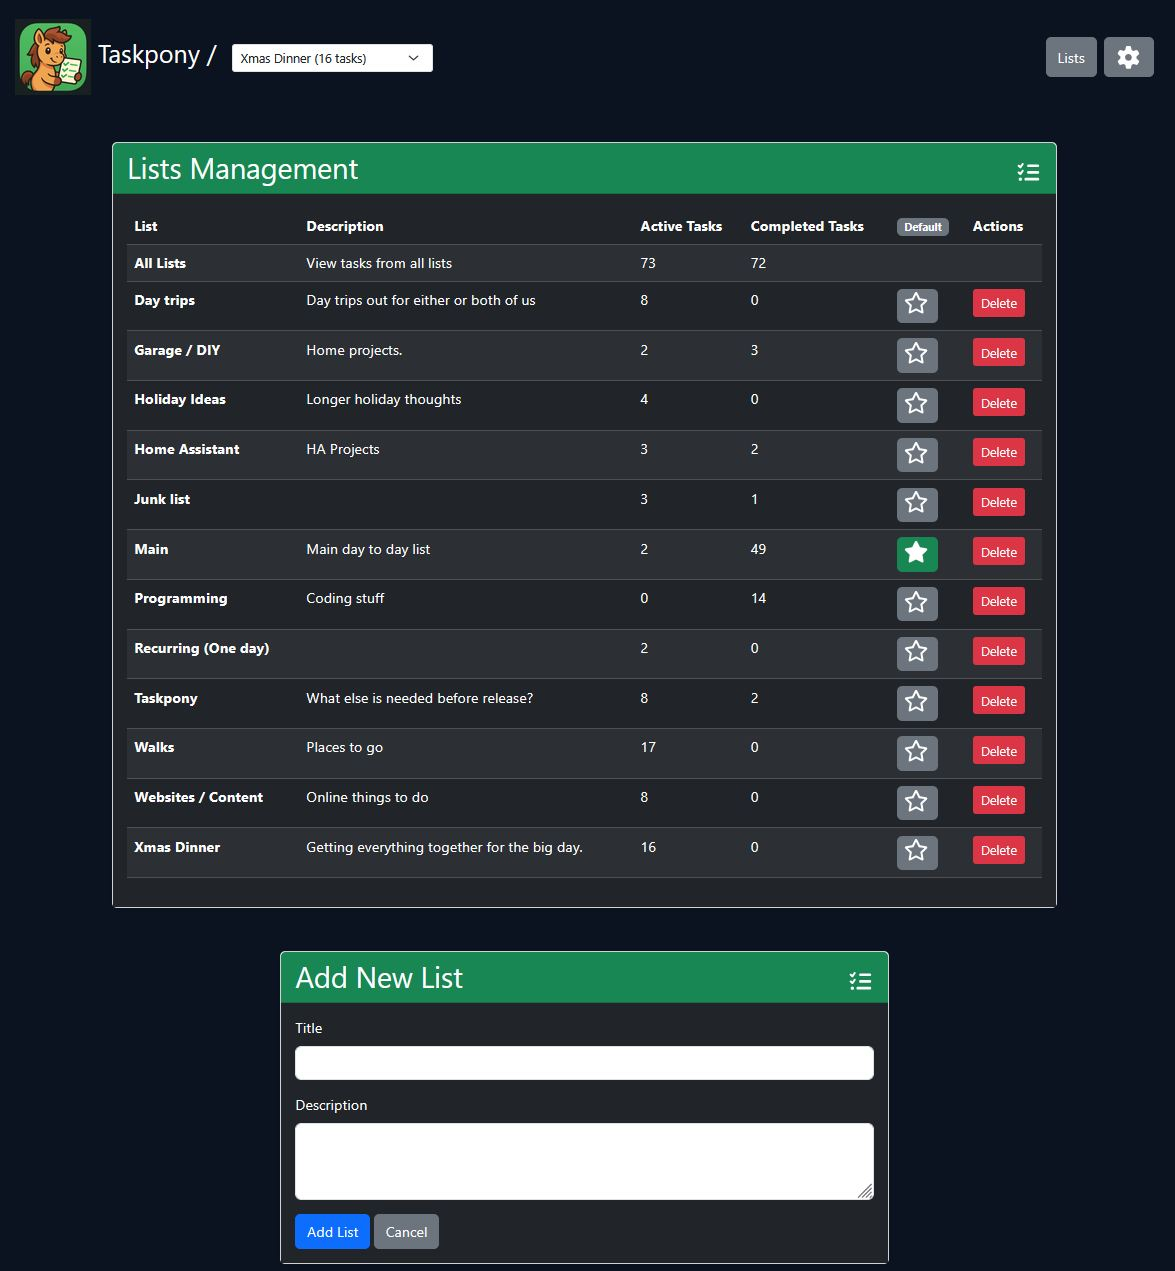
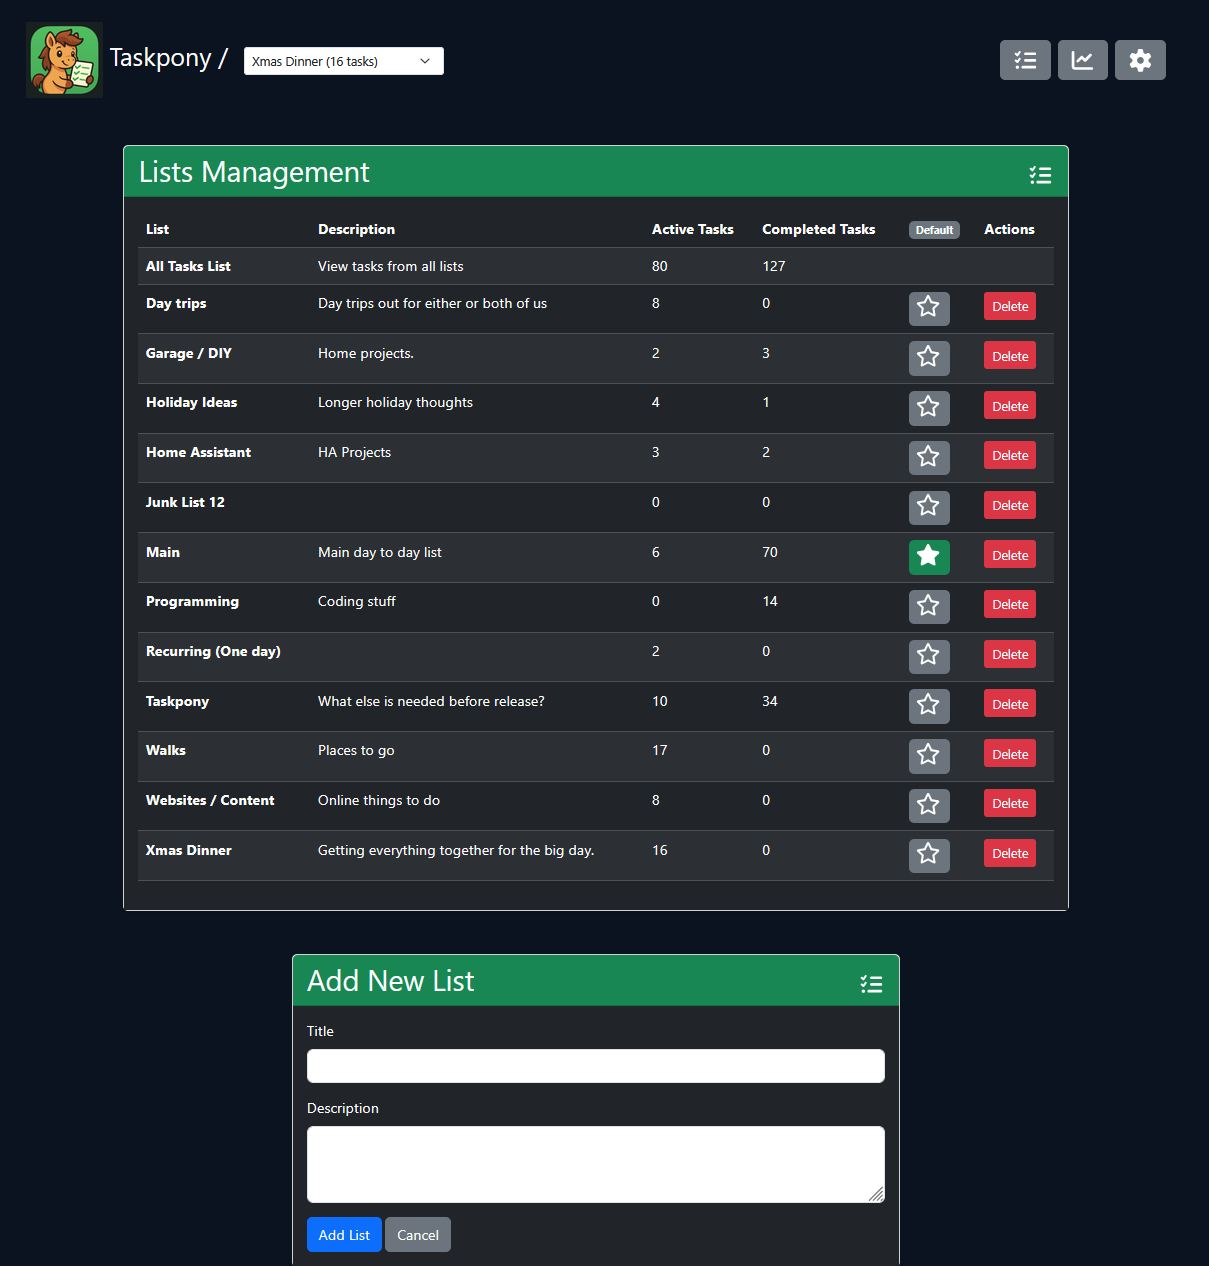
screenshots

diff --git a/README.md b/README.md
@@ -7,9 +7,9 @@
 
 Taskpony is intended to be small, easy to install and operate with a clean and intuitive interface. It wants to do one thing well - add, display and complete tasks. 
 
-Taskpony supports unlimited Tasks organised within unlimited Lists, and free movement of tasks within Lists. Tasks can be exported to the clipboard, CSV, PDF or cleanly printed.
+Taskpony supports unlimited Tasks organised within unlimited Lists, repeating tasks and free movement of tasks within Lists. Tasks can be exported to the clipboard, CSV, PDF or cleanly printed.
 
-No phone app required. The interface is responsive and scales well to phones. There are no trackers and does not require access to the internet to function; all required files are contained.
+No phone app required. The interface is responsive and scales well to all devices. There are no trackers and does not require access to the internet to function as all required files are included.
 
 See some more [Screenshots](#screenshots)
 
@@ -321,9 +321,15 @@ Because Taskpony's database is a simple sqlite3 file, it would be possible to au
 
 ![List Management Page](docs/lists.jpg)
 
+![Editing a Task](docs/edittask.jpg)
+
 ![Settings Page](docs/settings.jpg)
 
 ![Lists Pulldown](docs/lists_pulldown.jpg)
+
+![Deleting a List](docs/delete_list.jpg)
+
+![Statistics](docs/stats.jpg)
 
 # Schema
 
@@ -455,21 +461,21 @@ Some things for the future that may, or may not, be added.
 
 - (Probably) Configurable and automated deletion of tasks more than NN days since completion, or delete more than NN recent tasks.
 - (Maybe) A priority system. Poss 3 dots on each task in list for one-touch change. Low, medium, high? Sorted accordingly?
-- (Maybe) Add an icon to each List from Fontawesome for cosmetic identification.
 - (Maybe) Add default sorting option, rather than just newest-first.
 - (Maybe) Add colour to tasks lists. (Possibly based on priority, possibly a per-task setting)
-- (Maybe) Keep tasks, lists and config entirely in memory betwene pageloads and only write on change. Taskpony relies heavily on OS level disk caching to reduce sqlite overhead, but keeping very large lists in memory may be memory intensive. Also, most page loads involve a change, so benefit may not be significant. Needs consideration, possibly a problem that doesn't need solving.
-- (Maybe) Automated database backups.
 - (Maybe) New release notification. 
 - (Maybe) Multi-language support.
 - (Maybe) A demo instance that resets every NN minutes?  (Perhaps a hardened docker that just deletes the database)  Free hosting required.
 - (Maybe) Daily email report. Possibly showing outstanding tasks from Default list and summary stats.
+- (Maybe) Some sort of toggleable daily progress badge "N tasks done today". Unsure of need/benefit.
 
 # Version History
 
 ## 0.01 Initial release, 15th December 2025
 
-## 0.02
+## 0.2
+
+"Improved orphan handing. Added repeating tasks, stats and database backups. Multiple bugfixes and UI improvements."
 
 - Bugfix: Re-add html_escape() which had previously been merged with sanitize() and change calls to use it when displaying output. This corrects where tasks were stored and displayed with certain characters were made safe that didn't need to be. Quotes, single quotes, ampersands etc.
 - UX: Renamed "All Lists" to "All Tasks" @halcyonloon https://github.com/digdilem/taskpony/issues/1
@@ -485,10 +491,6 @@ Some things for the future that may, or may not, be added.
 - Feature: Daily backups of the database are now created. Number of them is configurable in /settings
 - Feature: Recurring tasks added.
 - Change: Daily functions call added. 
-
-
-- Feature: Orphaned task handling. !! See workflow in obsidian
-- Config option - Show stats
 
 
 # Licence
